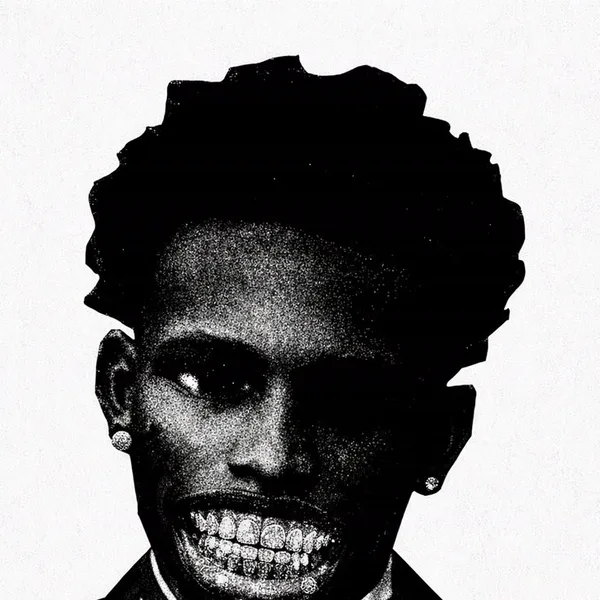
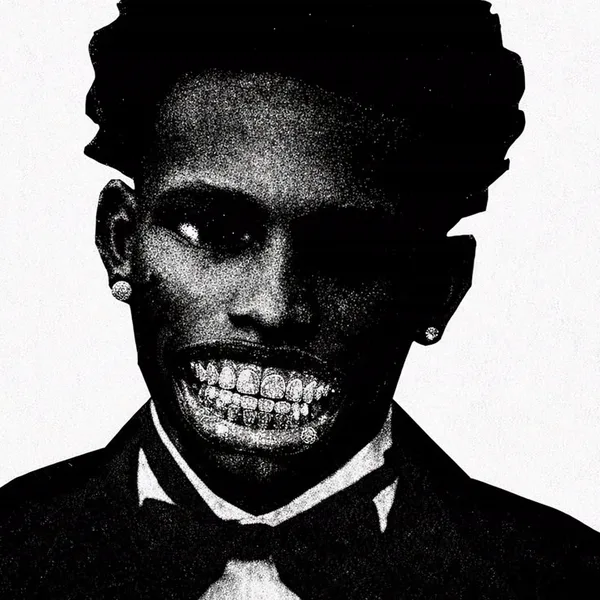
Corrige o corte da capa do Alee e forca atualizacao do audio em cache
- Capa recortada pelo centro (y=184..920) em vez de a partir do topo: o corte
  anterior cortava boca, gravata e ombros. O card usa object-cover, entao o
  recorte e exatamente o que aparece.
- type-alee.mp3 renomeado para type-alee-2.mp3: o arquivo no servidor ja estava
  correto, mas quem carregou a pagina enquanto a versao quebrada estava no ar
  seguia com ela em cache por ate 4h. Mudar a URL resolve na hora.

diff --git a/src/pages/Index.tsx b/src/pages/Index.tsx
@@ -112,7 +112,7 @@ function visualizerFor(name: string): string | null {
 // nivelados a -14 LUFS para que um beat nao soe mais alto que o outro.
 // BPM e tom vieram do nome dos masters originais.
 const PREVIEW_BEATS: BeatItem[] = [
-  { name: "Type Alee", url: "/beats/type-alee.mp3", image_url: "/beat-images/type-alee.webp" },
+  { name: "Type Alee", url: "/beats/type-alee-2.mp3", image_url: "/beat-images/type-alee.webp" },
   { name: "Type Brandão", url: "/beats/type-brandao.mp3", image_url: "/beat-images/type-brandao.webp" },
   { name: "Type Leviano", url: "/beats/type-leviano.mp3", image_url: "/beat-images/type-leviano.webp" },
   { name: "Type Supernova", url: "/beats/type-supernova.mp3", image_url: "/beat-images/type-supernova.webp" },
